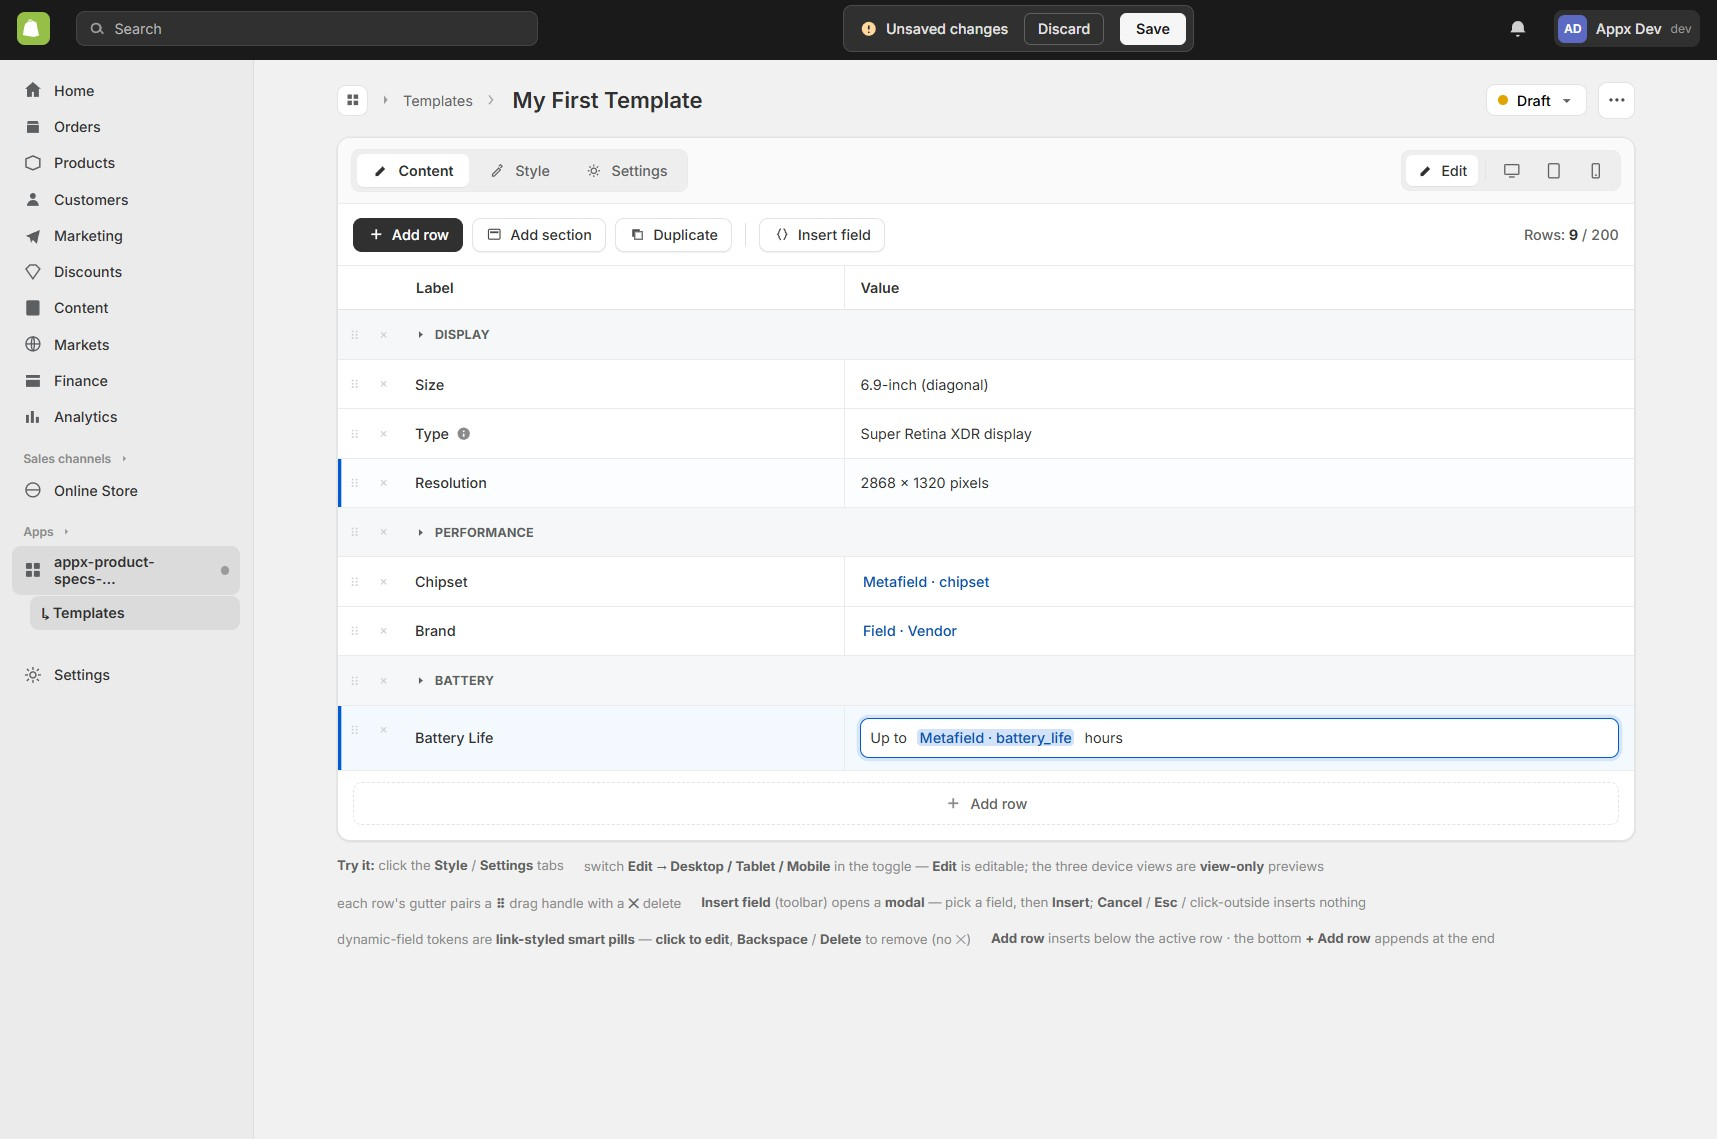
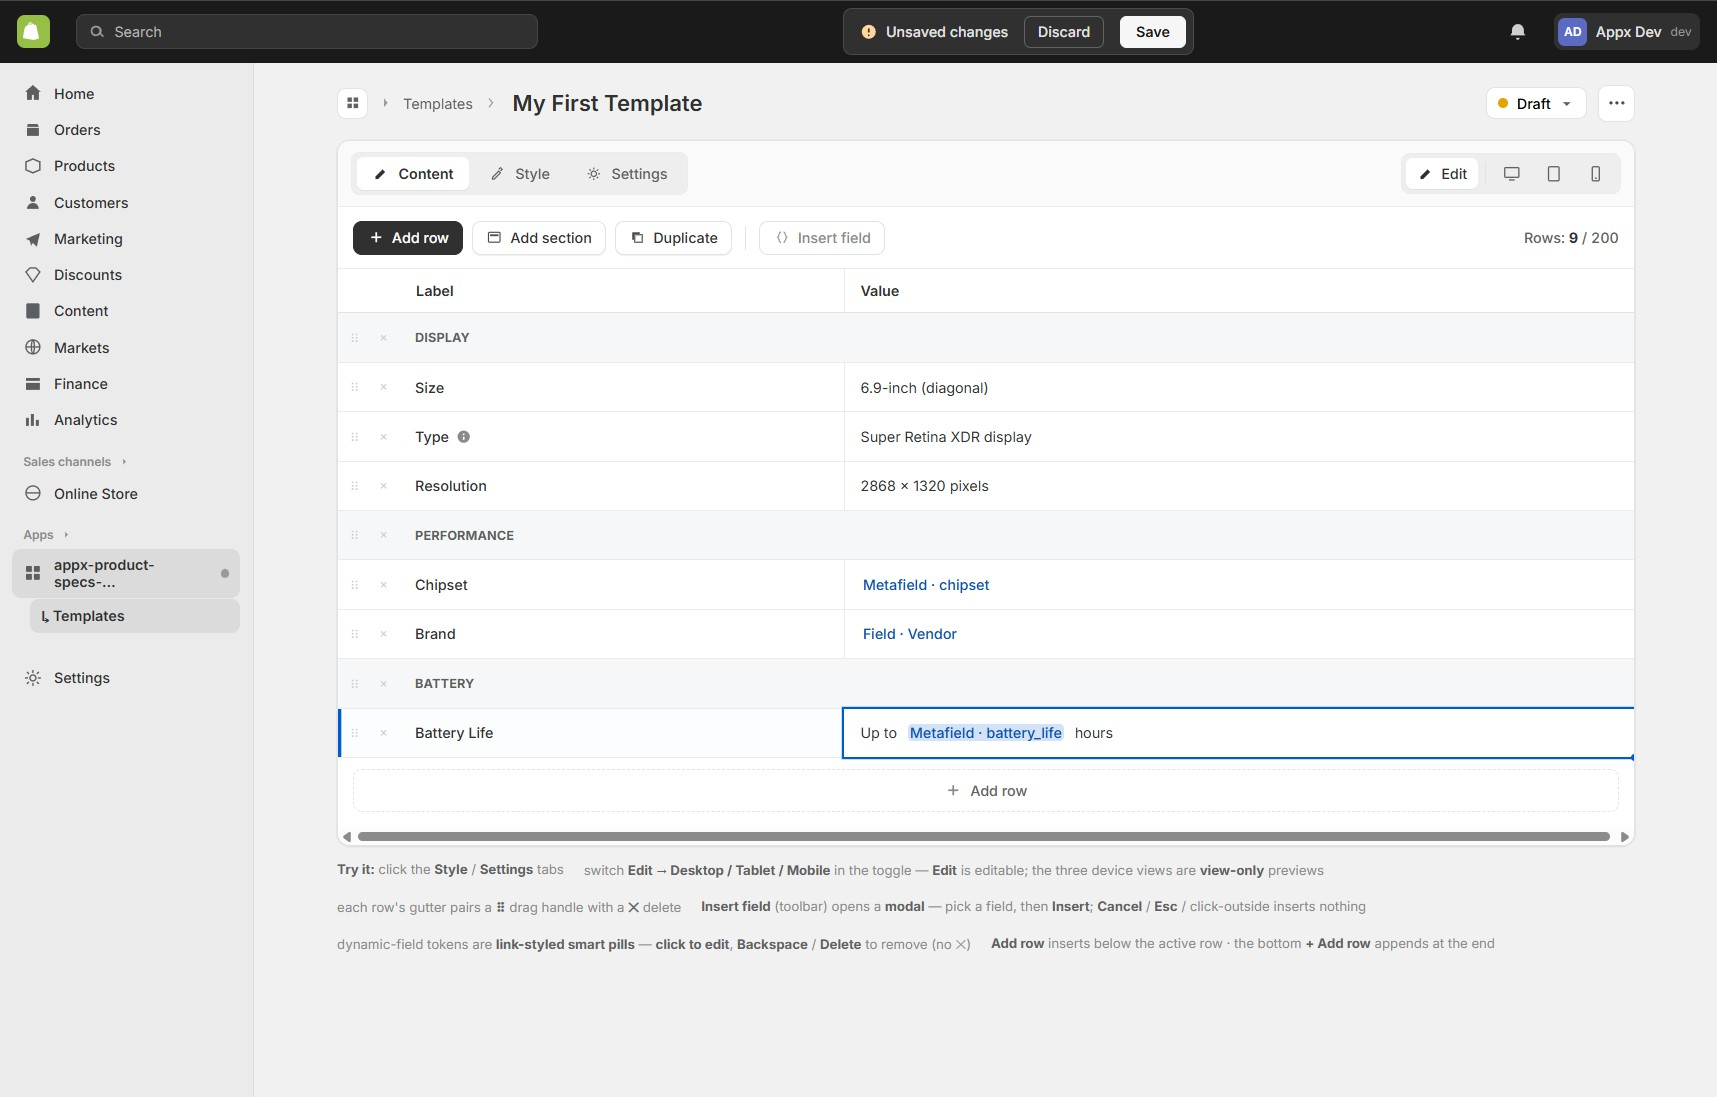
feat(editor): unify label/section/value cells with spreadsheet focus
Replace the Label/Section <s-text-field>s with styled native <input>s and
drop the value cell's <s-box border> wrapper so all three editable cells
share one .cellField look (identical border/radius/padding/height). Selecting
a cell now swaps only the border color to the captured Polaris accent on
:focus (width held constant, no layout shift) — a Google-Sheets-style active
cell. Native <input> keeps single-line/placeholder/a11y; the clipboard
skip-guard already matched `input`. Hex-free; gates green (219 tests).

diff --git a/app/routes/app.templates_.$id/SpecTableEditor.module.css b/app/routes/app.templates_.$id/SpecTableEditor.module.css
@@ -10,31 +10,51 @@
  * No hardcoded hex: colors are Polaris color tokens (CSS custom properties) or
  * `currentColor`; everything else is spacing/sizing in rem. */
 
-/* The one contenteditable host. Borderless and content-shaped so "Up to [token]
- * hours" reads as a single value, not a row of separate fields. `pre-wrap` honors
- * author-intended LINE_BREAK `<br>`s and soft-wraps long text for free. */
-.surface {
+/* Shared cell-field chrome for ALL three editable cells — the Label <input>, the
+ * Section <input>, and the Value contenteditable. One look so the columns read as
+ * the same control: identical border, radius, padding, and single-line height.
+ * Selecting a cell to edit swaps only the border COLOR (no width change → no
+ * layout shift), giving a spreadsheet-style "active cell" outline. Hex-free: the
+ * resting edge is a low-alpha `currentColor`; the active edge reuses the
+ * runtime-captured Polaris link blue (`--appx-token-color`, the same accent the
+ * active row and the value tokens use), degrading to `currentColor` when the
+ * capture is unavailable. `box-sizing: border-box` keeps both columns flush. */
+.cellField {
+  width: 100%;
+  box-sizing: border-box;
   font: inherit;
+  line-height: 1.25rem;
   color: inherit;
+  background: transparent;
+  border: 0.0625rem solid color-mix(in srgb, currentColor 16%, transparent);
+  border-radius: 0.5rem;
+  padding: 0.375rem 0.625rem;
   outline: none;
+}
+
+/* The active-cell indicator: border color only (width held constant per design),
+ * on plain `:focus` so it shows for both mouse-click and keyboard entry — the
+ * merchant is "in" the cell the moment it takes focus, Google-Sheets style. */
+.cellField:focus {
+  border-color: var(--appx-token-color, currentColor);
+}
+
+/* The Label / Section single-line native <input>. */
+.cellInput {
+  composes: cellField;
+}
+
+/* The one contenteditable value host. Shares the field chrome above so it matches
+ * the Label/Section inputs, then adds what a multiline editing surface needs:
+ * `pre-wrap` honors author-intended LINE_BREAK `<br>`s and soft-wraps long text,
+ * `min-height` keeps an empty cell one line tall, and `cursor: text` reads as
+ * editable. */
+.surface {
+  composes: cellField;
   min-height: 1.25rem;
   white-space: pre-wrap;
   overflow-wrap: anywhere;
   cursor: text;
-}
-
-/* Keyboard focus ring for the value surface. The default outline is dropped above
- * so the caret/token chrome reads as plain inline text, but a focusable editing
- * host (`tabIndex=0`, `role="textbox"`) still needs a clear focus indicator: the
- * `.rowActive` accent marks the whole ROW, not which of the row's two fields
- * (Label vs Value) has focus, and the blinking caret alone is too faint — most so
- * on an empty cell. This restores a visible ring on focus, matching the
- * handle/segment pattern. currentColor stays hex-free; the offset sits the ring in
- * the wrapping box's padding. */
-.surface:focus-visible {
-  outline: 0.125rem solid currentColor;
-  outline-offset: 0.125rem;
-  border-radius: 0.25rem;
 }
 
 /* contenteditable has no native placeholder; paint one for an empty cell and drop

diff --git a/app/routes/app.templates_.$id/EditorRowItem.tsx b/app/routes/app.templates_.$id/EditorRowItem.tsx
@@ -1,10 +1,10 @@
-import type { Dispatch } from "react";
+import type { ChangeEvent, Dispatch } from "react";
 import { memo, useCallback } from "react";
 import { useSortable } from "@dnd-kit/sortable";
 import { CSS } from "@dnd-kit/utilities";
 import type { EditorRow, RowsAction, ValuePart } from "../../utils/rows";
 import { describeRow } from "../../utils/reorderAnnouncements";
-import { DATA_COLUMNS, SECTION_COLUMNS, readValue } from "./editorShared";
+import { DATA_COLUMNS, SECTION_COLUMNS } from "./editorShared";
 import { RowGutter } from "./RowGutter";
 import { ValueCell } from "./ValueCell";
 import styles from "./SpecTableEditor.module.css";
@@ -40,8 +40,12 @@ export const EditorRowItem = memo(function EditorRowItem({
   const rowNumber = index + 1;
 
   const handleLabel = useCallback(
-    (event: Event) =>
-      dispatch({ type: "SET_LABEL", id: row.id, label: readValue(event) }),
+    (event: ChangeEvent<HTMLInputElement>) =>
+      dispatch({
+        type: "SET_LABEL",
+        id: row.id,
+        label: event.currentTarget.value,
+      }),
     [dispatch, row.id],
   );
   const handleDelete = useCallback(() => onDelete(row.id), [onDelete, row.id]);
@@ -116,24 +120,28 @@ export const EditorRowItem = memo(function EditorRowItem({
           />
 
           {isSection ? (
-            <s-box background="subdued" borderRadius="base" padding="small-200">
-              <s-text-field
-                label={`Section title for row ${rowNumber}`}
-                labelAccessibilityVisibility="exclusive"
-                placeholder="Section title"
-                value={row.label}
-                onInput={handleLabel}
-                onFocus={handleLabelFocus}
-              />
-            </s-box>
+            // Native single-line <input> styled to match the value surface (same
+            // border/radius/padding via `.cellInput`), so all three editable cells
+            // read as one control. `aria-label` carries the accessible name the
+            // former `s-text-field` `label` provided.
+            <input
+              type="text"
+              className={styles.cellInput}
+              aria-label={`Section title for row ${rowNumber}`}
+              placeholder="Section title"
+              value={row.label}
+              onChange={handleLabel}
+              onFocus={handleLabelFocus}
+            />
           ) : (
             <>
-              <s-text-field
-                label={`Label for row ${rowNumber}`}
-                labelAccessibilityVisibility="exclusive"
+              <input
+                type="text"
+                className={styles.cellInput}
+                aria-label={`Label for row ${rowNumber}`}
                 placeholder="Label"
                 value={row.label}
-                onInput={handleLabel}
+                onChange={handleLabel}
                 onFocus={handleLabelFocus}
               />
               <ValueCell

diff --git a/app/routes/app.templates_.$id/ValueCell.tsx b/app/routes/app.templates_.$id/ValueCell.tsx
@@ -317,34 +317,35 @@ export function ValueCell({
     [handleSelectionChange],
   );
 
+  // The contenteditable host carries its own field chrome (border/radius/padding
+  // via `.surface` → `.cellField`) so it matches the Label/Section inputs and the
+  // border can recolor on `:focus` — no `s-box` wrapper needed.
   return (
-    <s-box border="base" borderRadius="base" padding="small-200">
-      <div
-        ref={hostRef}
-        className={styles.surface}
-        contentEditable
-        suppressContentEditableWarning
-        role="textbox"
-        tabIndex={0}
-        aria-multiline="true"
-        aria-label={`Value for ${rowName}`}
-        spellCheck={false}
-        data-empty={isEmpty ? "true" : undefined}
-        data-placeholder="Value"
-        onInput={handleInput}
-        onKeyDown={handleKeyDown}
-        onPaste={handlePaste}
-        onClick={handleClick}
-        onCompositionStart={() => {
-          composingRef.current = true;
-        }}
-        onCompositionEnd={() => {
-          composingRef.current = false;
-          handleInput();
-        }}
-        onFocus={handleFocus}
-        onBlur={handleBlur}
-      />
-    </s-box>
+    <div
+      ref={hostRef}
+      className={styles.surface}
+      contentEditable
+      suppressContentEditableWarning
+      role="textbox"
+      tabIndex={0}
+      aria-multiline="true"
+      aria-label={`Value for ${rowName}`}
+      spellCheck={false}
+      data-empty={isEmpty ? "true" : undefined}
+      data-placeholder="Value"
+      onInput={handleInput}
+      onKeyDown={handleKeyDown}
+      onPaste={handlePaste}
+      onClick={handleClick}
+      onCompositionStart={() => {
+        composingRef.current = true;
+      }}
+      onCompositionEnd={() => {
+        composingRef.current = false;
+        handleInput();
+      }}
+      onFocus={handleFocus}
+      onBlur={handleBlur}
+    />
   );
 }

diff --git a/context/progress-tracker.md b/context/progress-tracker.md
@@ -14,6 +14,8 @@ Build the custom spec-table editor incrementally, following the revised 13-step 
 
 **Reshell Phase A COMPLETE (2026-06-22):** ahead of the assignment/storefront slice, the editor was **reskinned to the agreed mockup** (`design/spec-editor-mockup.html`) per `plan-reshell-spec-table-editor.md` — Phase A built the `EditorShell` chrome (segmented tabs + device toggle + sidebar), fixed the bounded inner-scroll, and **reused the browser-verified editing engine**. Staged **A2 (shell chrome) → A3 (bounded scroll) → A1 (extract `useRowEngine` + integrate)**; A2/A3 were built in a throwaway `/app/editor-shell` sandbox over dummy data so the working editor stayed frozen until A1. **All three are complete and browser-verified** (see Completed). **A1** turned the 1,521-line monolith into a thin wrapper (`useRowEngine` hook + presentational `ContentTab`/`RowActionsToolbar`/`RowGrid`/`InsertFieldModal` + byte-identical `ValueCell`/`EditorRowItem`/`RowGutter`), hosted the engine-driven `ContentTab` in the `EditorShell` card with the real `RowGrid` inside the bounded `.rowsScroller`, and **deleted the sandbox** — a behavior-preserving refactor (219 tests green, full in-browser editing matrix unregressed, **adversarial 5-dimension review found 0 regressions**). Also dropped the Label/Value header + hint per a merchant request (free vertical space). **Next: Phase B — Style tab** (decide the sidebar's controls at build start; likely the `TableStyling` migration per `data-model.md` §5), then C–F.
 
+**Unified cell-field styling + spreadsheet focus (2026-06-22):** the Label/Section inputs and the Value cell looked different (Polaris `<s-text-field>` shadow-DOM chrome vs. the contenteditable in an `<s-box border>` wrapper), and the Polaris field's focus ring is sealed and un-restyleable. Replaced both Label and Section `<s-text-field>`s with **styled native `<input>`s** (`EditorRowItem.tsx`; `handleLabel` now reads `event.currentTarget.value` from a React `onChange`, `aria-label` carries the accessible name) and dropped the value's `<s-box>` wrapper so the contenteditable carries its own border (`ValueCell.tsx`). All three editable cells now `composes` one shared `.cellField` look in `SpecTableEditor.module.css` (identical border / radius / padding / single-line height), and selecting a cell swaps **only the border color** (width held constant per the merchant's request — no layout shift) to `var(--appx-token-color)` on plain `:focus`, a Google-Sheets-style active-cell outline. Hex-free (resting edge = low-alpha `currentColor`; active edge = the same runtime-captured Polaris link blue the active-row accent uses). Native `<input>` keeps single-line + placeholder + a11y for free, and the clipboard skip-guard in `useRowEngine.ts` already matched `input`. **Browser-verified** in the embedded app: Label/Section/Value render identical; clicking a cell shows the blue focus border; typing a label dispatches `SET_LABEL` + raises the save bar (test edit discarded). Gates green (`typecheck` + `build` + **219 tests**).
+
 ---
 
 ## Completed
